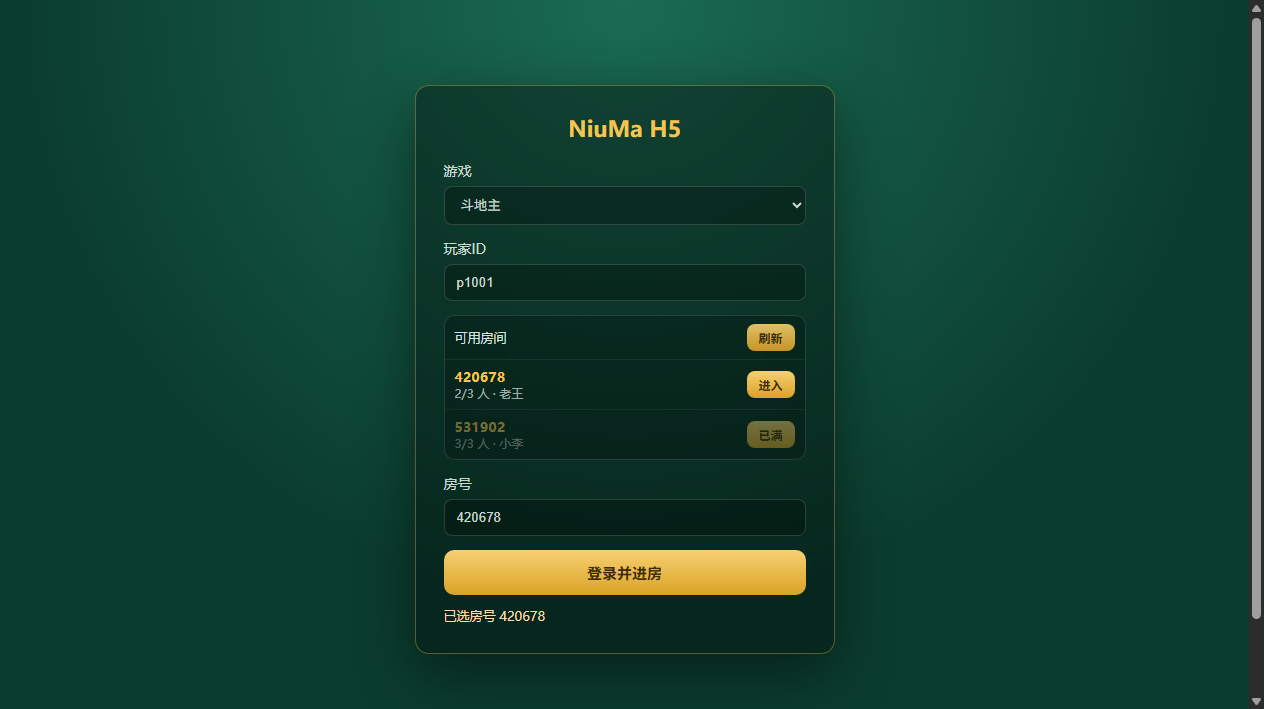
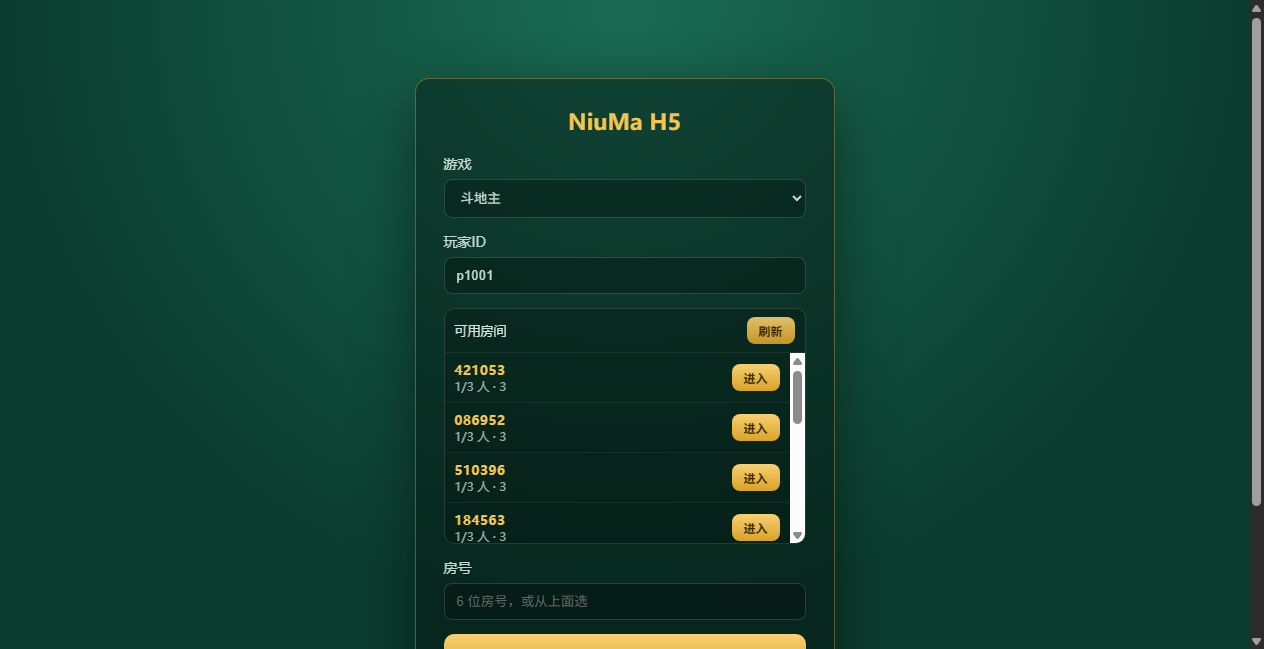
feat(h5): 对手位按游戏人数渲染 + 验收脚本与截图
- renderOpponents 按 maxSeats（斗地主/跑得快 3、麻将 4、牛牛 5）生成对手位，去掉多余空位
- 新增 reconnect-test.mjs（点重连按钮验证断线重连 + 状态同步）
- 新增 enter-from-list.mjs（从房号列表一键进房验证）
- 新增截图：房号列表、列表进房、重连后状态

diff --git a/src/views/h5-ddz/app.js b/src/views/h5-ddz/app.js
@@ -160,7 +160,11 @@ function renderTableCards(seat, cards, small = true) {
 }
 
 function renderOpponents(counts) {
-    const opps = [1, 2, 3, 4].filter((s) => s !== mySeat);
+    // 按游戏人数决定对手位数量（斗地主/跑得快 3 人、浙江麻将 4 人、牛牛 5 人）
+    const maxSeats = ({ 1031: 3, 1032: 3, 1024: 5, 1033: 4 })[gameType] || 3;
+    const all = [];
+    for (let s = 1; s < maxSeats; s++) all.push(s);
+    const opps = all.filter((s) => s !== mySeat);
     const ids = ["opp1", "opp2", "opp3", "opp4"];
     for (let i = 0; i < 4; i++) {
         const el = $(ids[i]);
